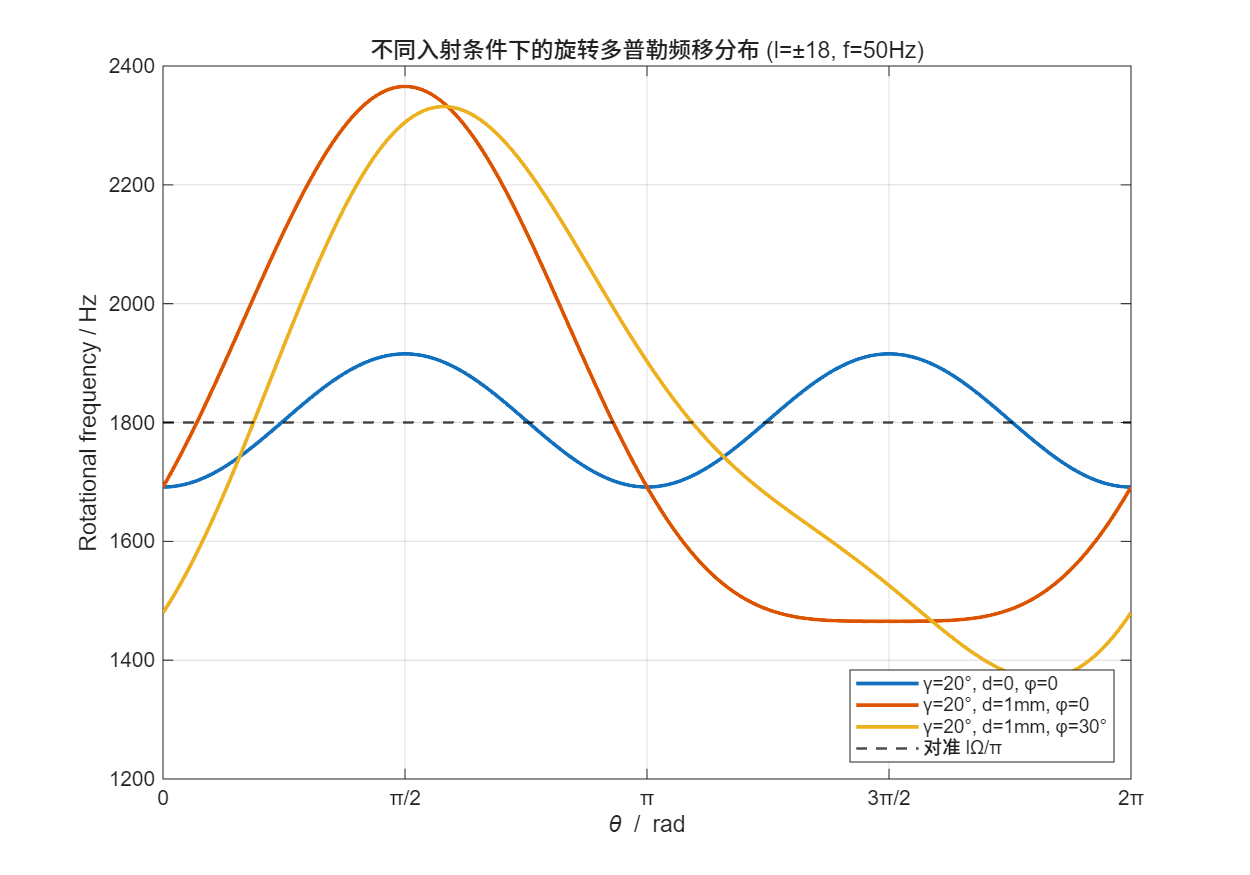
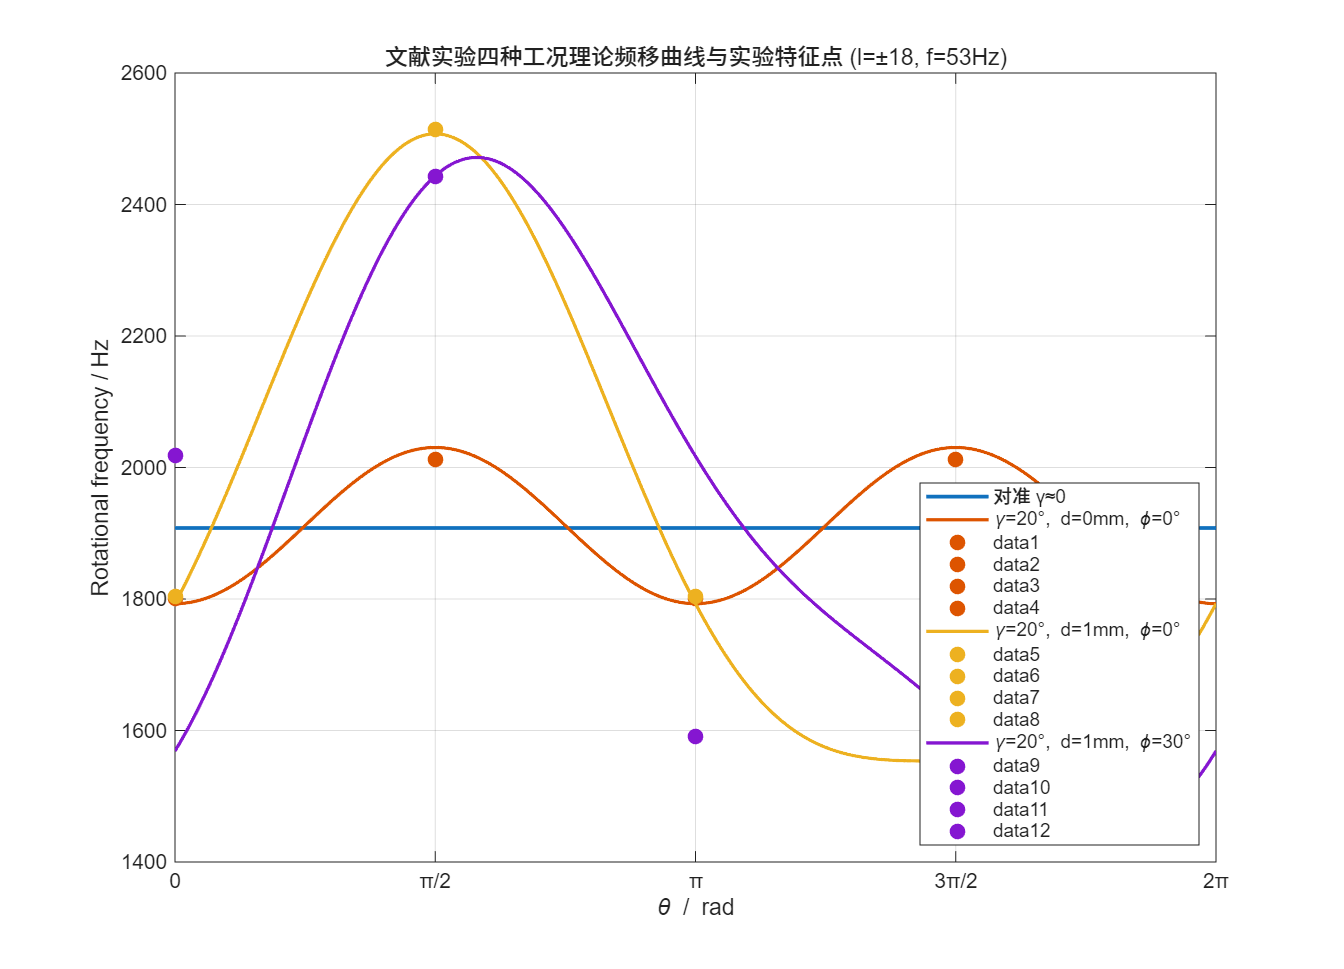
验证并对齐原文实验数据：四种工况理论特征值与实验频谱对照

diff --git a/reproduce_ding2021/reproduce_main.m b/reproduce_ding2021/reproduce_main.m
@@ -146,29 +146,73 @@ saveas(fig, fullfile('results', 'fig_spectrum_general.png'));
 close(fig);
 
 %% ============ [5] 文献实验四种工况频移曲线对比 ============
-% 工况: (γ, d, φ) = (20°,0,0) (20°,1mm,0) (20°,1mm,30°) + 对准
-cases = { {20, 0,     0,  'γ=20°, d=0, φ=0'}, ...
-          {20, 1e-3,  0,  'γ=20°, d=1mm, φ=0'}, ...
-          {20, 1e-3, 30,  'γ=20°, d=1mm, φ=30°'} };
+% 原文实验工况（电机设定 53 Hz, l=±18）:
+%   工况1(对准): γ≈0,  d=0,   φ=0    实验频移 1906.74 Hz -> 52.96 Hz (<0.1%)
+%   工况2:       γ=20°, d=0,   φ=0    实验峰 f_max=2012, f_min=1801
+%   工况3:       γ=20°, d=1mm, φ=0    特征: Δf0=Δfπ=1804, f_max=2514, f_min=1538
+%   工况4:       γ=20°, d=1mm, φ=30°  特征: 2443/2018/1591/1640
+f_rot_exp = 53;                 % 实验电机设定频率 (Hz)
+Omega_exp = 2*pi*f_rot_exp;
+base_exp  = l*Omega_exp/pi;     % 叠加态对准频移 lΩ/π = 1908 Hz
 
-fig = figure('Position', [100 100 800 560], 'Color', 'w');
+% 原文实验特征频移（从图5/图6读出）
+exp_cases = {
+    struct('tag','工况2: γ=20°,d=0,φ=0',    'g',20,'d',0,   'p',0,  'spec',[2012 1801], 'fmod',1903.58, 'fest',52.88, 'err',0.23, 'feat',[1801 2012 1801 2012]);
+    struct('tag','工况3: γ=20°,d=1mm,φ=0',  'g',20,'d',1e-3,'p',0,  'spec',[2514 1538], 'fmod',1911.78, 'fest',53.11, 'err',0.21, 'feat',[1804 2514 1804 1538]);
+    struct('tag','工况4: γ=20°,d=1mm,φ=30°','g',20,'d',1e-3,'p',30, 'spec',[2443 2018 1591 1640], 'fmod',1919.35, 'fest',53.32, 'err',0.6, 'feat',[2018 2443 1591 1640]);
+};
+
+fprintf('\n===== [5] 原文实验四种工况理论验证 =====\n');
+fprintf('叠加态对准频移 lΩ/π = %.2f Hz (Ω=2π×53)\n\n', base_exp);
+
+fig = figure('Position', [100 100 860 620], 'Color', 'w');
 cols = lines(4);
 hold on;
-for k = 1:numel(cases)
-    c = cases{k};
-    g_ = c{1}*pi/180; d_ = c{2}; p_ = c{3}*pi/180;
-    Df_k2 = base .* ( sin(theta).^2/cos(g_) + cos(g_).*cos(theta).^2 ...
-                    + (d_/r).*(sin(theta).*cos(p_) - cos(theta).*sin(p_).*cos(g_)) );
-    plot(theta, Df_k2, '-', 'Color', cols(k,:), 'LineWidth', 1.8, 'DisplayName', c{4});
+% 工况1 对准
+plot(theta, base_exp*ones(size(theta)), '-', 'Color', cols(1,:), 'LineWidth', 1.8, 'DisplayName', '对准 γ≈0');
+% 工况2-4 理论曲线 + 实验特征点
+for k = 1:numel(exp_cases)
+    c = exp_cases{k};
+    g_ = c.g*pi/180; d_ = c.d; p_ = c.p*pi/180;
+    Df_k2 = base_exp .* ( sin(theta).^2/cos(g_) + cos(g_).*cos(theta).^2 ...
+                        + (d_/r).*(sin(theta).*cos(p_) - cos(theta).*sin(p_).*cos(g_)) );
+    plot(theta, Df_k2, '-', 'Color', cols(k+1,:), 'LineWidth', 1.6, 'DisplayName', sprintf('\\gamma=%d°, d=%dmm, \\phi=%d°', c.g, c.d*1000, c.p));
+    % 理论特征点值
+    Df_th = base_exp * [ (cos(g_) - (d_/r)*sin(p_)*cos(g_)), ...
+                         (1/cos(g_) + (d_/r)*cos(p_)), ...
+                         (cos(g_) + (d_/r)*sin(p_)*cos(g_)), ...
+                         (1/cos(g_) - (d_/r)*cos(p_)) ];
+    % 实验特征点（红点）
+    th_feat = [0 pi/2 pi 3*pi/2];
+    for j = 1:numel(c.feat)
+        plot(th_feat(j), c.feat(j), 'o', 'Color', cols(k+1,:), 'MarkerSize', 7, 'MarkerFaceColor', cols(k+1,:));
+    end
+    % 打印理论特征值与实验值对照
+    fprintf('%s\n', c.tag);
+    fprintf('  理论特征值: θ=0:%.1f  θ=π/2:%.1f  θ=π:%.1f  θ=3π/2:%.1f Hz\n', Df_th(1), Df_th(2), Df_th(3), Df_th(4));
+    fprintf('  实验特征值: %s Hz\n', num2str(c.feat, '%.0f '));
+    % 复算 f_mod 与转速误差（公式12 几何平均）
+    f_mod_c = sqrt( ((c.feat(1)+c.feat(3))/2) * ((c.feat(2)+c.feat(4))/2) );
+    f_est_c = f_mod_c/(2*l);
+    err_c   = abs(f_est_c - f_rot_exp)/f_rot_exp*100;
+    fprintf('  复算 f_mod=%.2f Hz (原文 %.2f), f=%.2f Hz (原文 %.2f), 误差 %.2f%% (原文 %.2f%%)\n\n', ...
+        f_mod_c, c.fmod, f_est_c, c.fest, err_c, c.err);
 end
-yline(base, 'k--', 'LineWidth', 1.2, 'DisplayName', '对准 lΩ/π');
 xlim([0 2*pi]); xticks(0:pi/2:2*pi);
 xticklabels({'0','π/2','π','3π/2','2π'});
 grid on; box on;
 xlabel('\theta / rad'); ylabel('Rotational frequency / Hz');
-title('不同入射条件下的旋转多普勒频移分布 (l=±18, f=50Hz)');
+title('文献实验四种工况理论频移曲线与实验特征点 (l=±18, f=53Hz)');
 legend('Location', 'southeast');
 saveas(fig, fullfile('results', 'fig_cases_compare.png'));
 close(fig);
+
+%% ============ [6] 对准工况实验验证 ============
+% 原文图5: 对准入射实验频移 1906.74 Hz -> f=52.96 Hz (误差<0.1%)
+f_detect = 1906.74;
+f_est_aligned = f_detect/(2*l);
+fprintf('\n===== [6] 对准工况 (原文图5) =====\n');
+fprintf('实验频移 %.2f Hz -> f=%.2f Hz (设定 53 Hz, 误差 %.2f%%)\n\n', ...
+    f_detect, f_est_aligned, abs(f_est_aligned-53)/53*100);
 
 fprintf('\n===== 复现完成，图片已保存到 results/ =====\n');
